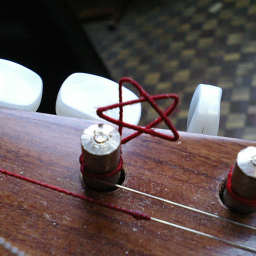
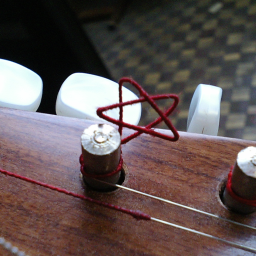
Add MPH Change kcrt.png

diff --git a/index.html b/index.html
@@ -94,7 +94,6 @@ mailto:abuse@hotmail.com
 							</a>
 							&nbsp; <span class="keyinfo">送付の際、本文に DXwLQ3ZjyueiKVeR と記載すると迷惑メールと判定されなくなります。</span>
 						</li>
-						<li class="list-group-item">ブログ: <a href="https://blog.kcrt.net">Nanoseconds Diary</a></li>
 						<li class="list-group-item">ウェブサイト: <a class="org" href="https://www.kcrt.net">Nanoseconds
 								Hunter</a></li>
 						<li class="list-group-item">住んでいるところ： <span class="adr"><span class="country-name">Japan</span>,
@@ -128,6 +127,8 @@ mailto:abuse@hotmail.com
 						機械学習・深層学習基礎コース/メディカルAI専門コース 修了 </li>
 					<li class="list-group-item"><i class="license fas fa-stethoscope"></i> 医師免許 <small
 							class="text-muted">Medical license of Japan</small></li>
+					<li class="list-group-item"><i class="license fas fa-plus-square"></i> 公衆衛生学修士 <small
+							class="text-muted">Master of Public Health</small></li>
 					<li class="list-group-item"><i class="license fas fa-baby"></i> 日本小児科学会 認定 小児科専門医・指導医 <small
 							class="text-muted">Japan Pediatric Society Board Certified Pediatrician, Instructor </small>
 					</li>
